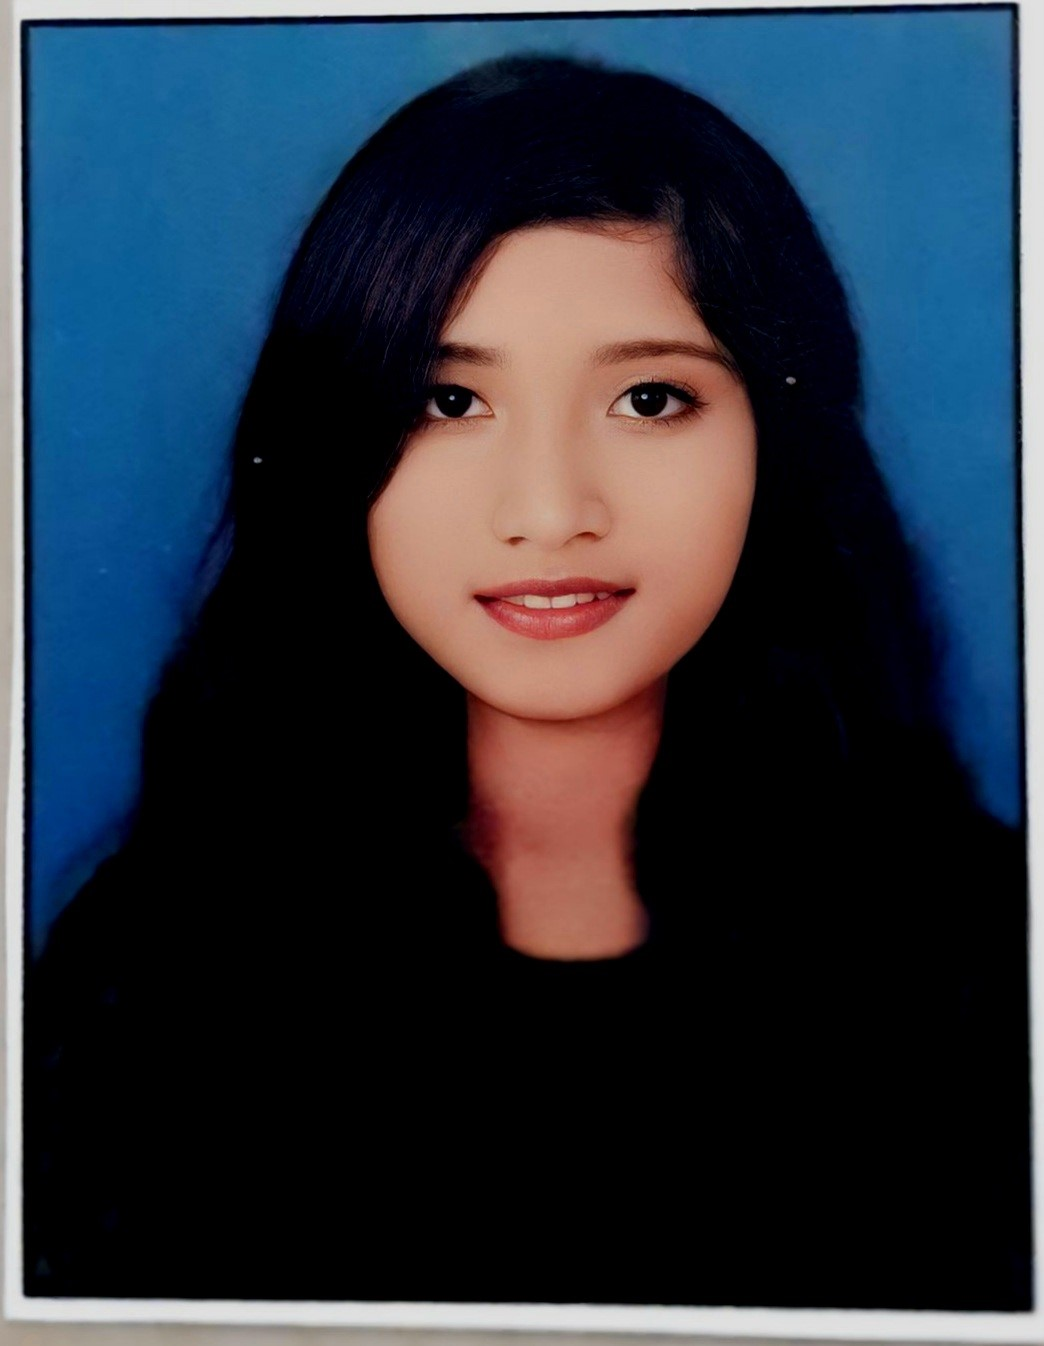
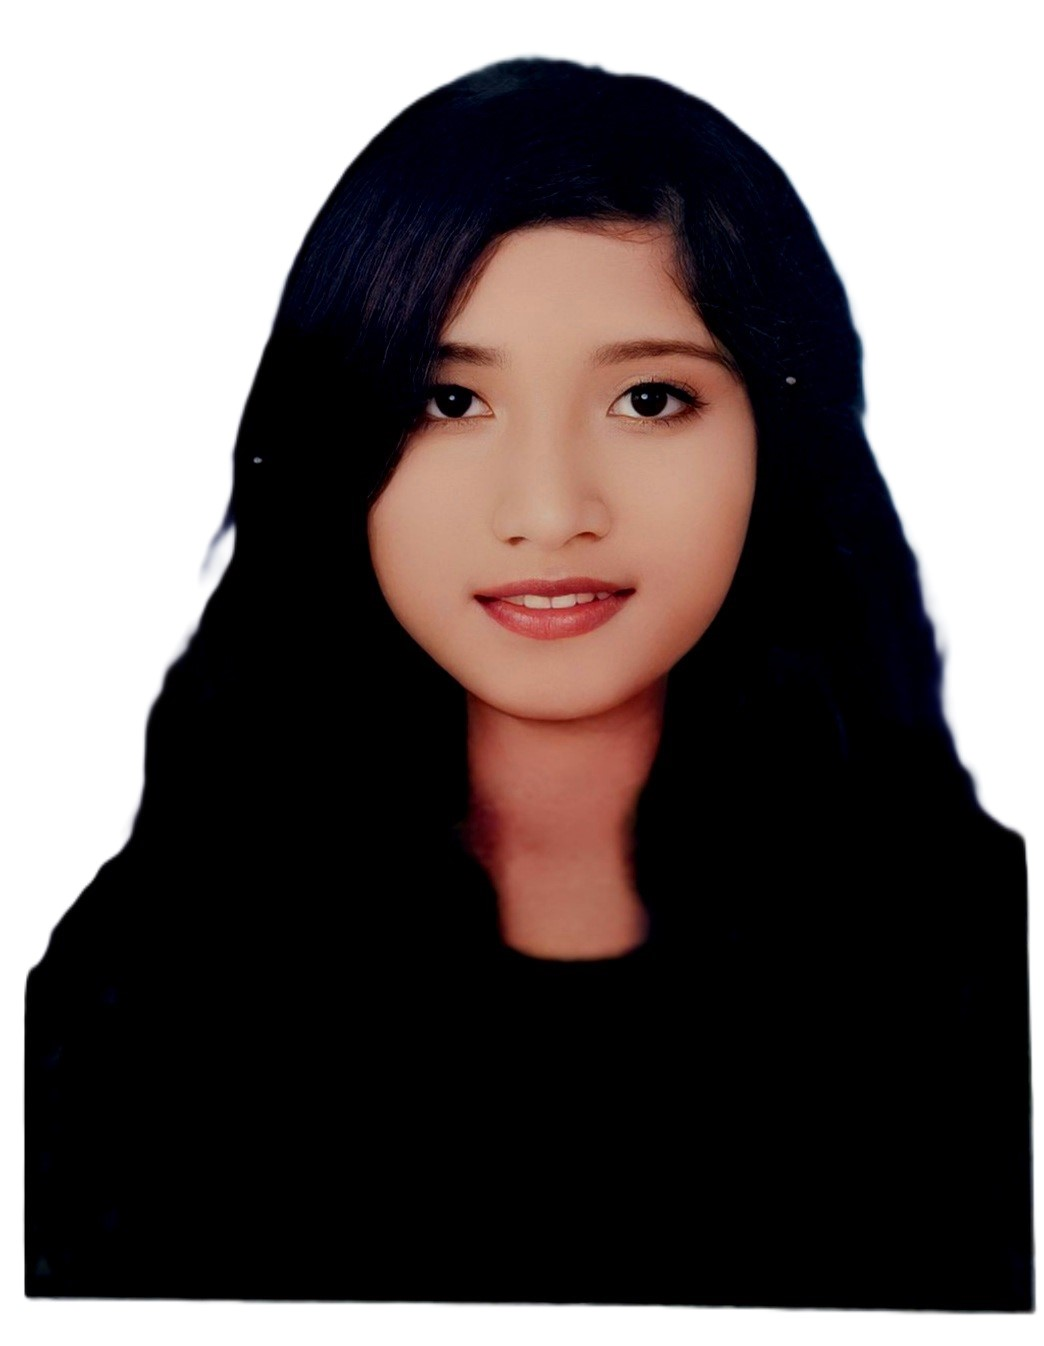
Final portfolio update

diff --git a/index.html b/index.html
@@ -25,12 +25,12 @@
 
     <div class="collapse navbar-collapse" id="menu">
       <ul class="navbar-nav ms-auto">
-        <li class="nav-item"><a class="nav-link" href="#home">Home</a></li>
-        <li class="nav-item"><a class="nav-link" href="#education">Education</a></li>
-        <li class="nav-item"><a class="nav-link" href="#skills">Skills</a></li>
-        <li class="nav-item"><a class="nav-link" href="#projects">Projects</a></li>
-        <li class="nav-item"><a class="nav-link" href="#certifications">Certifications</a></li>
-        <li class="nav-item"><a class="nav-link" href="#activities">Activities</a></li>
+        <li class="nav-item"><a class="nav-link" href="#home"><h3>Home</h3></a></li>
+        <li class="nav-item"><a class="nav-link" href="#education"><h3>Education</h3></a></li>
+        <li class="nav-item"><a class="nav-link" href="#skills"><h3>Skills</h3></a></li>
+        <li class="nav-item"><a class="nav-link" href="#projects"><h3>Projects</h3></a></li>
+        <li class="nav-item"><a class="nav-link" href="#certifications"><h3>Certifications</h3></a></li>
+        <li class="nav-item"><a class="nav-link" href="#activities"><h3>Activities</h3></a></li>
       </ul>
     </div>
   </div>
@@ -83,7 +83,7 @@
 
       <div class="col-md-5 text-center reveal">
         <div class="hero-img">
-          <img src="dipa2.jpg">
+          <img src="offdc.jpeg">
         </div>
       </div>
 

diff --git a/style.css b/style.css
@@ -19,9 +19,9 @@ body {
 .hero-img {
   width: 260px;
   height: 260px;
-  padding: 6px;
+  padding: 0.2px;
   border-radius: 50%;
-  background: linear-gradient(45deg, yellow, orange);
+  background: linear-gradient(45deg, rgb(218, 218, 84), rgb(247, 196, 101));
   box-shadow: 0 0 40px rgba(255,200,0,0.8);
 }
 
@@ -30,7 +30,7 @@ body {
   height: 100%;
   border-radius: 50%;
   object-fit: cover;
-  border: 4px solid black;
+  border: 4px solid #010103;
 }
 
 /* SECTIONS */
@@ -51,7 +51,7 @@ body {
 
 /* CARDS */
 .card-box {
-  background: white;
+  background: rgba(190, 185, 198, 0.48);
   padding: 25px;
   border-radius: 15px;
   border-top: 5px solid orange;
